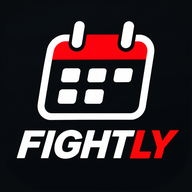
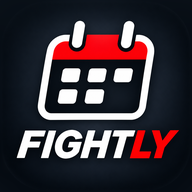
Nouvelle icône FIGHTLY (fond bleu nuit)
- Coins remplis en prolongeant le dégradé de l'icône
- Pictogramme calendrier régénéré pour l'en-tête et le favicon
- Cache hors ligne en version fightly-v4 pour récupérer les nouvelles icônes

Claude-Session: https://claude.ai/code/session_01NhJQM2tF2dxSkVWcKRuVSo

diff --git a/sw.js b/sw.js
@@ -1,5 +1,5 @@
 /* Service worker : l'app s'ouvre même hors ligne (avec les dernières données vues). */
-const VERSION = "fightly-v3";
+const VERSION = "fightly-v4";
 const SHELL = ["./", "index.html", "assets/style.css", "assets/app.js", "manifest.webmanifest", "icons/icon-192.png", "icons/logo-mark.png", "icons/favicon-64.png"];
 
 self.addEventListener("install", (e) => {
